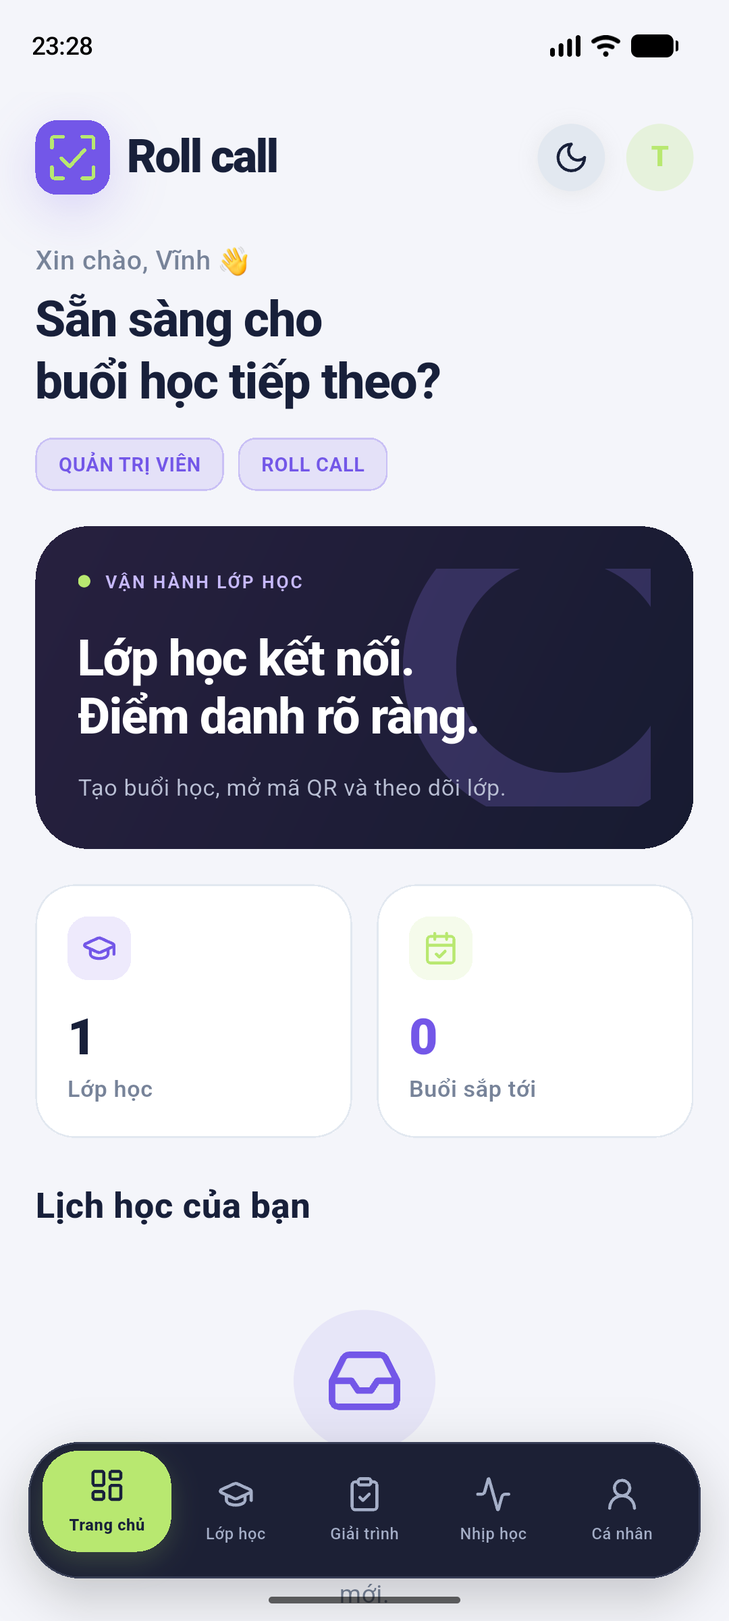
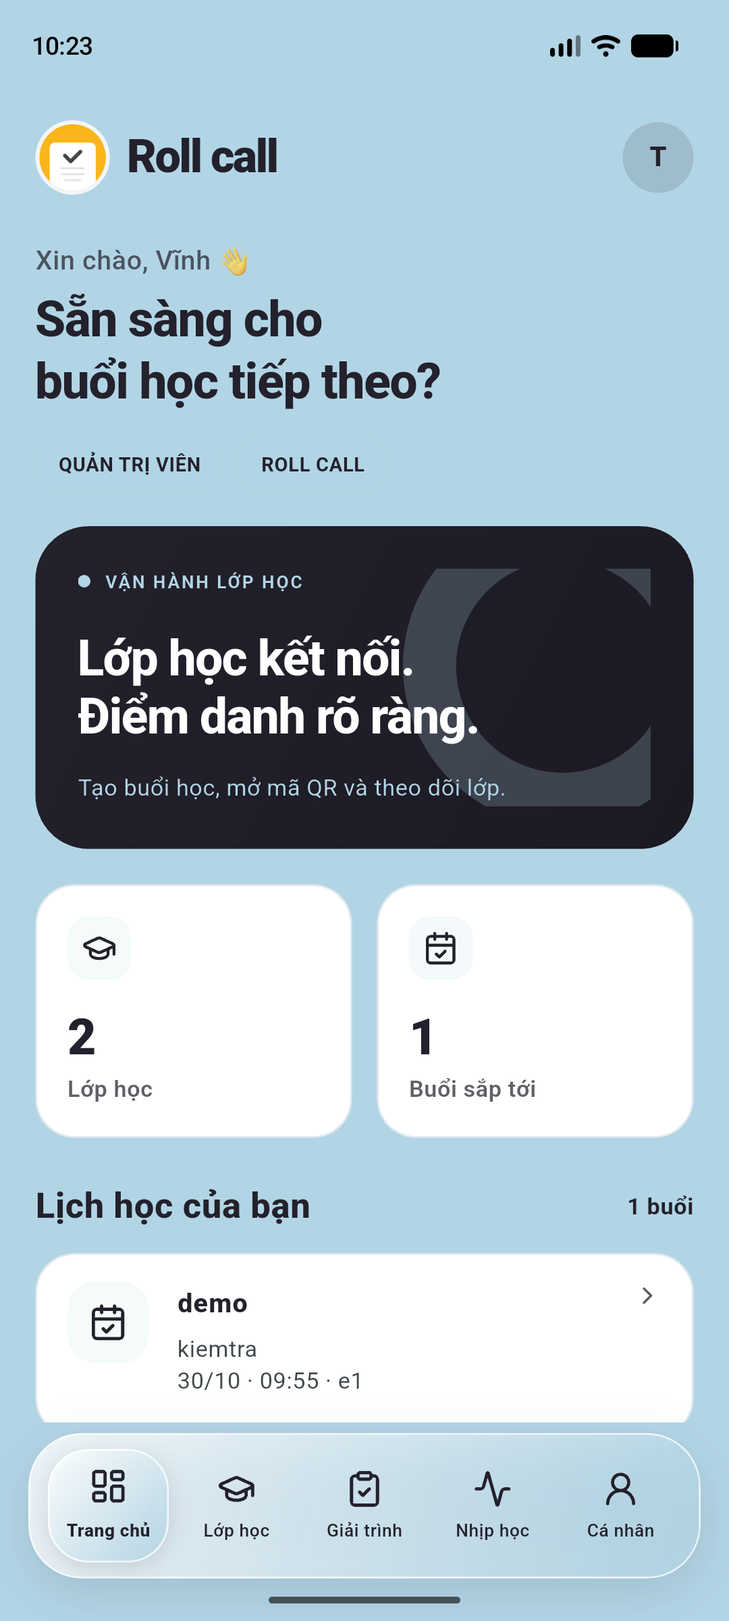
Refresh README for v1.2.3 features, verification and current UI

diff --git a/README.md b/README.md
@@ -1,47 +1,74 @@
 # Roll call — Điểm danh sinh viên
 
-<img src="assets/branding/app-icon.png" width="88" alt="Roll call" />
+<img src="assets/branding/app-icon.png" width="88" alt="Biểu tượng Roll call" />
 
 **Trương Tuấn Vĩnh · 2380602577 · Nhóm 4 con mèo**  
-Project Flutter: `truong_tuan_vinh_2380602577_diem_danh`. Tên hiển thị: **Roll call**.
+Project Flutter: `truong_tuan_vinh_2380602577_diem_danh` · **Phiên bản hiện tại: 1.2.3+6**
 
-Ứng dụng điểm danh bằng QR có thời hạn và GPS, phân quyền Admin / Giảng viên / Sinh viên, nhận OTP thật qua Gmail và xử lý giải trình có lịch sử.
+Ứng dụng Flutter dành cho Admin, Giảng viên và Sinh viên: xác thực Email OTP, quản lý lớp/buổi học, điểm danh QR kết hợp GPS, cảm biến chuyển động và duyệt giải trình.
 
-## Tải APK và dùng thử
+## Tải app và truy cập API
 
-- [Tải APK Android v1.2.3](https://github.com/Vinh-205/Roll-Call/releases/download/v1.2.3/Roll-call-2380602577-v1.2.3.apk)
-- [Các bản phát hành và source ZIP](https://github.com/Vinh-205/Roll-Call/releases)
-- [Swagger — xem và thử API](https://api.vihx.online/swagger/)
-- [Kiểm tra API](https://api.vihx.online/api/health)
+| Nội dung | Liên kết |
+|---|---|
+| APK Android v1.2.3 | [Tải và cài đặt](https://github.com/Vinh-205/Roll-Call/releases/download/v1.2.3/Roll-call-2380602577-v1.2.3.apk) |
+| Release, source ZIP và SHA256 | [Bản phát hành v1.2.3](https://github.com/Vinh-205/Roll-Call/releases/tag/v1.2.3) |
+| Swagger UI | [api.vihx.online/swagger/](https://api.vihx.online/swagger/) |
+| API base URL | `https://api.vihx.online/api` |
+| Health check | [GET /api/health](https://api.vihx.online/api/health) |
+| Source backend | [backend/](backend/) |
+| Source gateway | [cloudflare-gateway/](cloudflare-gateway/) |
 
-<img src="docs/images/download-apk-qr.png" width="200" alt="Quét QR tải APK Roll call" />
+<img src="docs/images/download-apk-qr.png" width="190" alt="Quét mã để tải APK v1.2.3" />
 
-Android: tải APK, cho phép cài đặt từ trình duyệt nếu Android yêu cầu, mở Roll call. Internet là bắt buộc để xác thực và lưu dữ liệu. Không cần chạy máy tính hoặc localhost. Tài khoản mới có vai trò Sinh viên; Admin cấp quyền Giảng viên. Không công khai mật khẩu tài khoản quản trị.
+App sử dụng HTTPS công khai, không cần chạy backend trên máy tính. Tải APK, cho phép cài từ trình duyệt nếu Android yêu cầu rồi mở Roll call. Thiết bị cần Internet để xác thực và lưu dữ liệu.
 
-## Chức năng
+## Mới trong v1.2.3
+
+- **Sửa nút bị che:** nội dung có vùng hiển thị riêng phía trên thanh điều hướng; nút **Tạo lớp / Tham gia lớp** không còn nằm dưới thanh này. Kiểm thử cả Admin và Sinh viên ở chiều rộng 360 px, cỡ chữ 130%.
+- **Thanh điều hướng kiểu liquid glass:** nền trong mờ, blur, viền sáng, bóng đổ và vùng chọn trượt giữa các mục. Icon Morphicons chuyển hình khi đổi tab. Đây là hiệu ứng kính được dựng bằng Flutter, không phải thành phần Liquid Glass gốc của iOS.
+- **Giữ bản sửa QR của v1.2.2:** bộ quét nhận đúng `catcheck:<sessionId>:<token>` từ backend. Đổi tên hiển thị thành Roll call không thay đổi giao thức QR.
+- **Giữ các nâng cấp v1.2.x:** sáu ô OTP đều nhau, splash Lottie mới, palette Cosmic/Candy Blue, nút đăng xuất đỏ bầm, ảnh đại diện, cài đặt giao diện và mở khóa sinh trắc học.
+
+<img src="docs/images/home-light.png" width="290" alt="Roll call v1.2.3 trên Android máy ảo với thanh điều hướng kính" />
+
+Ảnh trên được chụp từ bản v1.2.3 đang chạy trên máy ảo Android.
+
+## Chức năng chính
 
 | Nhóm | Chức năng |
 |---|---|
-| Tài khoản | Đăng ký email, mật khẩu + Email OTP, đăng xuất, sửa hồ sơ |
-| Phân quyền | Admin quản trị tài khoản; giảng viên quản lý lớp phụ trách; sinh viên xem lớp và lịch sử riêng |
-| CRUD | Lớp học, buổi học, thành viên lớp; tạo/sửa/xóa giải trình chờ duyệt; quản trị vai trò/tài khoản |
-| QR | Giảng viên mở mã có hạn 90 giây; sinh viên quét bằng camera; không điểm danh trùng |
-| Vị trí | Lấy GPS khi xác nhận; kiểm tra độ chính xác và bán kính buổi học; không theo dõi nền |
-| Chuyển động | Gia tốc kế trực tiếp, đồ thị, đếm đợt chuyển động; phiên tập trung 25 phút và nhắc nghỉ |
-| Giải trình | Sinh viên gửi lý do; giảng viên/Admin chấp nhận hoặc từ chối, ghi chú và thời gian xử lý |
-| Giao diện | Cosmic `#23212C` / Candy Blue `#B2D5E5`; nút Lottie ngày/đêm; chuyển theme lan tròn toàn màn hình; splash điện thoại kèm tên Roll call |
+| Đăng ký / đăng nhập | Đăng ký email; xác minh OTP qua Gmail; đăng nhập tên đăng nhập + mật khẩu + Email OTP; đăng xuất |
+| Phân quyền | Admin quản trị tài khoản; Giảng viên quản lý lớp phụ trách; Sinh viên truy cập lớp và lịch sử của mình; backend kiểm tra quyền |
+| CRUD | Lớp học, buổi học, quản lý thành viên; tạo/sửa/xóa giải trình chờ duyệt; quản trị tài khoản và vai trò |
+| QR | Quét camera, mã có thời hạn 90 giây, kiểm tra đúng buổi học và chống điểm danh trùng |
+| GPS | Xin quyền, lấy vị trí khi xác nhận điểm danh; kiểm tra độ chính xác và bán kính; không theo dõi vị trí nền |
+| Chuyển động | Gia tốc kế trực tiếp, đồ thị và đếm đợt chuyển động; phiên tập trung 25 phút và nhắc nghỉ |
+| Giải trình | Sinh viên gửi lý do; Giảng viên/Admin duyệt hoặc từ chối, lưu ghi chú và lịch sử xử lý |
+| Hồ sơ | Cập nhật thông tin cá nhân, chọn/xóa ảnh đại diện bằng trình chọn ảnh hệ thống |
+| Cài đặt | Cỡ chữ 90–130%, màu nền riêng cho sáng/tối; lưu lựa chọn trên thiết bị |
+| Sinh trắc học | Mở khóa phiên đã đăng nhập bằng phương thức sinh trắc học hệ điều hành hỗ trợ, sau lần đăng nhập mật khẩu/OTP |
 
-Điểm danh kết hợp mã QR có thời hạn và vị trí; màn hình Nhịp học sử dụng cảm biến chuyển động của thiết bị.
+### Giao diện và animation
 
-## Giao diện
+- Màu thương hiệu **Cosmic `#23212C`** và **Candy Blue `#B2D5E5`**. Nền tối mặc định dịu hơn: `#35313F`, thẻ `#454151`; có thể chọn nền khác trong Cài đặt.
+- Chỉ có **một nút sáng/tối** tại **Cá nhân → Giao diện Sáng / Tối**. Lottie Day to Night chạy thuận/ngược; hiệu ứng lan toàn màn hình giữ nguyên trang và dữ liệu đang nhập.
+- Splash dùng **Smartphones Applications.json**, kèm tên Roll call. Launcher icon là hình điểm danh do chủ dự án cung cấp.
+- Sáu ô Email OTP cùng kích thước, focus rõ; hỗ trợ dán mã, tự điền và chỉ nhận tối đa sáu chữ số. Đã kiểm thử ở chiều rộng 280 px, cỡ chữ 130%.
+- Nút đăng xuất phủ **đỏ bầm `#6B3747` toàn ô**, chữ và icon sáng.
+- Hiệu ứng theme và chuyển tab tôn trọng tùy chọn giảm chuyển động của thiết bị.
 
-Màu chủ đạo: **Cosmic `#23212C`** và **Candy Blue `#B2D5E5`**. Chế độ tối mặc định dùng biến thể Cosmic dịu `#35313F` và thẻ `#454151` để giảm cảm giác quá tối; trong Cài đặt có thể chọn Cosmic gốc hoặc nền sáng hơn. Nút Day to Night chạy thuận/ngược theo chế độ; thay đổi theme lan từ nút bấm ra toàn màn hình và giữ nguyên trang/nội dung đang nhập. Khi thiết bị bật giảm chuyển động, hiệu ứng lan được bỏ qua.
+### Ảnh đại diện và sinh trắc học
 
-<img src="docs/images/home-light.png" width="260" alt="Giao diện sáng" /> <img src="docs/images/home-dark.png" width="260" alt="Giao diện tối" />
+**Cá nhân → Đổi ảnh đại diện → Chọn từ thư viện** mở trình chọn ảnh hệ thống. Android 13+ sử dụng Photo Picker để cấp quyền cho ảnh được chọn; máy ảo cần có ảnh trong Pictures/DCIM. Ảnh được sao chép vào bộ nhớ riêng của app, tách theo ID tài khoản và giữ sau khi mở lại. **Ảnh đại diện chưa đồng bộ backend.**
 
-## Cài source Flutter
+Sau khi đăng nhập mật khẩu + OTP, vào **Cá nhân → Cài đặt ứng dụng → Khuôn mặt / Vân tay**. App chỉ bật tính năng sau khi xác thực sinh trắc học thành công. Lần mở sau, app kiểm tra phiên với API rồi yêu cầu mở khóa; sau hơn một phút ở nền sẽ khóa lại nếu đã bật. Phiên hết hạn hoặc đăng xuất vẫn cần mật khẩu + OTP.
 
-Yêu cầu Flutter có Dart phù hợp `pubspec.yaml` (source hiện dùng Dart >= 3.13.3), Android SDK, JDK tương thích Android Gradle Plugin. Chạy `flutter doctor` trước.
+Thiết bị phải hỗ trợ và đã đăng ký sinh trắc học trong Android/iOS Settings. Hệ điều hành quyết định phương thức khả dụng; không phải mọi Android đều cho ứng dụng dùng khuôn mặt. App dùng `local_auth`, không lưu ảnh khuôn mặt hay mẫu vân tay. **Chưa xác nhận mở khóa sinh trắc học thành công trên thiết bị thật đã đăng ký.**
+
+## Cài và chạy source
+
+Yêu cầu Flutter có **Dart >= 3.13.3**, Android SDK và JDK tương thích Android Gradle Plugin. Chạy `flutter doctor` để kiểm tra môi trường.
 
 ```bash
 git clone https://github.com/Vinh-205/Roll-Call.git
@@ -51,65 +78,64 @@ flutter devices
 flutter run -d <device-id>
 ```
 
-Mở **thư mục gốc có `pubspec.yaml`** trong Android Studio hoặc VS Code. Không mở riêng `android/` để chạy Flutter. Nên đặt source ở đường dẫn không dấu như `D:\AndroidStudioProjects\Roll-Call`.
+Mở **thư mục gốc có `pubspec.yaml`** trong Android Studio hoặc VS Code. Nên đặt source ở đường dẫn không dấu, ví dụ `D:\AndroidStudioProjects\Roll-Call`.
 
 ```bash
-flutter analyze
-flutter test
 flutter build apk --release
 ```
 
-APK tạo tại `build/app/outputs/flutter-apk/app-release.apk`. API mặc định là HTTPS công khai. Có thể đổi môi trường bằng:
+APK được tạo tại `build/app/outputs/flutter-apk/app-release.apk`. API mặc định đã là `https://api.vihx.online/api`. Muốn dùng môi trường riêng:
 
 ```bash
 flutter run --dart-define=API_BASE_URL=https://YOUR-API-DOMAIN/api
 ```
 
-Tên package Flutter giữ nhận diện tác giả. iOS có source nhưng chưa build/kiểm thử trên thiết bị Apple.
+Không cần đưa `.env`, mật khẩu hoặc khóa gửi email vào Flutter để dùng API hiện tại.
 
-## Sử dụng
+### Chạy máy thật và chiếu lên desktop
 
-1. Đăng ký bằng email nhận thư được; nhập OTP 6 số trong Gmail. Đăng nhập cũng yêu cầu mật khẩu và OTP. Kiểm tra Spam nếu chưa thấy thư; chờ 60 giây giữa các lần gửi.
-2. Admin mở Cá nhân → Quản trị tài khoản, cấp vai trò Giảng viên cho thành viên phù hợp.
-3. Giảng viên tạo lớp và buổi học, lấy GPS thật nếu dùng vùng điểm danh, mở QR khi buổi học đang diễn ra.
-4. Sinh viên tham gia bằng mã lớp, bấm Quét QR điểm danh, cho phép camera/vị trí và quét QR trên màn hình giảng viên. Điện thoại phải ở trong bán kính và GPS đủ chính xác.
-5. Xem lịch sử. Nếu không điểm danh được, gửi giải trình từ buổi học; giảng viên duyệt và ghi chú.
-6. Mở Nhịp học, bật Chuyển động trực tiếp rồi nghiêng điện thoại nhẹ. Khi rời trang, cảm biến/timer được hủy theo vòng đời màn hình.
-7. Chỉ có một nút Day to Night nhỏ tại Cá nhân → Giao diện Sáng / Tối. Bấm để đổi theme với hiệu ứng lan tròn.
+1. Kết nối USB, bật Gỡ lỗi USB, mở khóa điện thoại và chấp nhận quyền kết nối máy tính.
+2. Dùng `flutter devices`, rồi `flutter run -d <device-id>`; hoặc cài APK từ Release.
+3. Cài [scrcpy từ nguồn chính thức](https://github.com/Genymobile/scrcpy), chạy:
 
-- [Link API và endpoint](docs/LINK_API.txt)
+```bash
+scrcpy -d --no-audio
+```
 
-## Ảnh đại diện và thư viện ảnh
+`-d` chọn thiết bị USB khi đang mở cả máy ảo. Giữ cáp kết nối trong lúc trình chiếu. Để demo QR, dùng máy ảo đăng nhập Admin/Giảng viên và điện thoại đăng nhập Sinh viên.
 
-Trong **Cá nhân**, chạm ảnh đại diện hoặc **Đổi ảnh đại diện → Chọn từ thư viện**. Trình chọn ảnh hệ thống cấp quyền cho ảnh được chọn; Android 13+ dùng Photo Picker, Android cũ dùng trình chọn tệp/ảnh. Máy ảo cần có ảnh trong Pictures/DCIM để chọn. Ảnh được sao chép vào bộ nhớ riêng của ứng dụng, tách theo ID tài khoản, giữ sau khi khởi động lại và có thể xóa. Ảnh đại diện hiện chỉ lưu trên thiết bị, chưa đồng bộ backend. iOS đã khai báo mô tả quyền thư viện ảnh; chưa kiểm thử trên thiết bị Apple.
+## Luồng sử dụng
 
-## Cài đặt và sinh trắc học
+1. Đăng ký bằng email nhận thư được, nhập OTP từ Gmail. Tài khoản mới là Sinh viên; Admin cấp vai trò Giảng viên khi cần.
+2. Giảng viên tạo lớp và buổi học, thiết lập thời gian/vị trí/bán kính điểm danh.
+3. Sinh viên tham gia lớp bằng mã lớp.
+4. Khi buổi học diễn ra, Giảng viên mở QR; Sinh viên cấp quyền camera, quét mã và xác nhận chia sẻ vị trí. Thiết bị phải trong bán kính, GPS đủ chính xác.
+5. Xem kết quả và lịch sử; gửi giải trình khi gặp sự cố để Giảng viên/Admin xử lý.
+6. Trong Nhịp học, bật chuyển động trực tiếp và di chuyển nhẹ thiết bị. Cảm biến/timer được dừng theo vòng đời màn hình.
+7. Trong Cá nhân, đổi ảnh, chỉnh hồ sơ, cỡ chữ, màu nền, giao diện hoặc thiết lập sinh trắc học.
 
-**Cá nhân → Cài đặt ứng dụng** cho phép đổi cỡ chữ 90–130%, chọn màu nền riêng cho sáng/tối, cập nhật hồ sơ và ảnh đại diện. Các lựa chọn được lưu trên thiết bị. Nút Day to Night chỉ có một vị trí trong Cá nhân.
+**Nếu quét QR lỗi:** cập nhật APK từ v1.2.2 trở lên và mở QR mới ở máy Giảng viên. Mã hết hạn sau 90 giây; sai lớp, ngoài thời gian hoặc ngoài bán kính vẫn bị API từ chối.
 
-Sau lần đăng nhập mật khẩu + Email OTP, có thể bật **Khuôn mặt / Vân tay**. Ứng dụng yêu cầu xác thực sinh trắc học thành công trước khi lưu lựa chọn. Lần mở app sau dùng phiên đã được lưu bảo mật, kiểm tra token với API rồi yêu cầu sinh trắc học trước khi hiển thị các trang đã đăng nhập. Khi phiên hết hạn hoặc sau khi đăng xuất, vẫn cần mật khẩu + OTP. Sau hơn một phút ở nền, ứng dụng yêu cầu mở khóa lại nếu đã bật tính năng.
+**Nếu không kết nối được máy chủ sau khi mới đổi domain:** kiểm tra Internet và thử mở health check trên cùng thiết bị. DNS của nhà mạng có thể còn lưu kết quả cũ; có thể chọn DNS riêng tư `one.one.one.one` trong Android Settings nếu mạng hỗ trợ. Không tắt kiểm tra chứng chỉ HTTPS.
 
-Dùng `local_auth` của Flutter, `FlutterFragmentActivity` và Android `USE_BIOMETRIC`; iOS có `NSFaceIDUsageDescription`. Thiết bị/hệ điều hành quyết định phương thức khả dụng; không đảm bảo mọi điện thoại Android đều cho ứng dụng dùng nhận diện khuôn mặt. Không lưu ảnh khuôn mặt, mẫu vân tay hoặc mật khẩu. Nếu chưa đăng ký sinh trắc học trên thiết bị, màn hình hướng dẫn thiết lập hoặc tiếp tục dùng OTP. Máy ảo cần tự đăng ký vân tay ảo trong Android Settings để thử giao diện xác thực thật. Các kiểm thử tự động sử dụng authenticator giả lập, chưa thay thế kiểm thử phần cứng trên điện thoại thật.
+## Swagger và kiến trúc API
 
-## Thử Swagger
+Mở [Swagger](https://api.vihx.online/swagger/), gọi `POST /auth/login` bằng tài khoản của mình, lấy `challengeId`, rồi gọi `POST /auth/verify` bằng OTP nhận qua Gmail. Sao chép `token`, bấm **Authorize** và dán token nguyên bản, không thêm chữ `Bearer`. Thử `GET /auth/me` hoặc `GET /courses`.
 
-Mở `POST /auth/login`, tự nhập tài khoản/mật khẩu. Sao chép `challengeId`; gọi `POST /auth/verify` cùng OTP trong email. Sao chép trường `token`, bấm **Authorize**, dán token nguyên bản, không thêm chữ `Bearer`. Thử `GET /auth/me`, `GET /courses`. Các thao tác ghi/xóa tác động dữ liệu thật; dùng lớp demo để trình diễn. Không quay mật khẩu, OTP, token hoặc tọa độ cá nhân.
-
-## Kiến trúc
+Swagger có logo và favicon Swagger UI; OpenAPI trỏ cùng domain tới `https://api.vihx.online/api`. Các endpoint ghi/xóa tác động dữ liệu thật, nên dùng lớp thử. Không chia sẻ mật khẩu, OTP hoặc token. Xem thêm [link API và endpoint](docs/LINK_API.txt).
 
 ```mermaid
 flowchart LR
-  A[Flutter · Roll call] -->|HTTPS + Bearer| B[Cloudflare Worker cá nhân · API gateway]
-  W[Swagger UI] -->|Try it out| B
-  B --> C[Backend nghiệp vụ hiện có · Cloudflare Workers]
-  C --> D[(Cloudflare D1)]
-  C -->|Yêu cầu gửi OTP| E[Google Apps Script · Mail relay]
-  E --> F[Gmail của người dùng]
-  G[Camera · QR] --> A
-  H[GPS · Gia tốc kế] --> A
+  App[Flutter Roll call] -->|HTTPS + Bearer| Gateway[api.vihx.online · Cloudflare gateway]
+  Swagger[Swagger UI] -->|Try it out| Gateway
+  Gateway --> Backend[Backend nghiệp vụ hiện có]
+  Backend --> DB[(Cloudflare D1)]
+  Backend --> Relay[Google Apps Script · gửi OTP]
+  Relay --> Gmail[Gmail người dùng]
+  Device[Camera · GPS · Gia tốc kế] --> App
 ```
 
-Tên miền mới là gateway trong tài khoản Cloudflare cá nhân, chuyển tiếp đến backend hiện có để giữ nguyên dữ liệu và phiên đăng nhập. **Chưa di chuyển D1 sang tài khoản cá nhân**. Google Apps Script chỉ gửi email, không phải API CRUD. Source nghiệp vụ nằm ở `backend/lib/api.ts`; source gateway ở `cloudflare-gateway/`.
+`api.vihx.online` là gateway trong tài khoản Cloudflare cá nhân, chuyển tiếp tới backend hiện có để giữ nguyên dữ liệu và phiên đăng nhập. **Chưa di chuyển D1 sang tài khoản cá nhân.** Google Apps Script chỉ hỗ trợ gửi email OTP, không phải API CRUD. Bản sửa QR và giao diện không thay đổi nghiệp vụ backend.
 
 ```mermaid
 sequenceDiagram
@@ -119,58 +145,69 @@ sequenceDiagram
   participant Mail as Gmail relay
   U->>App: Tên đăng nhập + mật khẩu
   App->>API: POST /auth/login
-  API->>Mail: Gửi OTP 6 số
+  API->>Mail: Gửi Email OTP
   API-->>App: challengeId
-  U->>App: Nhập OTP nhận trong Gmail
+  U->>App: Nhập OTP 6 số
   App->>API: POST /auth/verify
-  API-->>App: token + user.role
+  API-->>App: token + vai trò
   App->>App: Mở giao diện theo vai trò
 ```
 
 ```mermaid
 flowchart TD
-  A[Giảng viên tạo buổi học] --> B[Mở QR có thời hạn]
-  B --> C[Sinh viên quét bằng camera]
-  C --> D[Lấy GPS khi xác nhận]
-  D --> E{API kiểm tra thành viên, thời gian, QR, vị trí}
-  E -->|Hợp lệ| F[Lưu đúng giờ hoặc đến muộn]
-  E -->|Không hợp lệ| G[Thông báo lý do]
-  G --> H[Sinh viên gửi giải trình]
-  H --> I[Giảng viên duyệt, lưu ghi chú và thời gian]
+  A[Giảng viên mở QR có thời hạn] --> B[Sinh viên quét QR]
+  B --> C[Xác nhận chia sẻ GPS]
+  C --> D{API kiểm tra quyền, buổi học, QR, vị trí}
+  D -->|Hợp lệ| E[Lưu đúng giờ hoặc đến muộn]
+  D -->|Không hợp lệ| F[Thông báo lý do]
+  F --> G[Sinh viên gửi giải trình]
+  G --> H[Giảng viên duyệt và lưu lịch sử]
 ```
 
-## Triển khai backend / OTP
+## Kiểm thử và phạm vi xác nhận
 
-Backend đang hoạt động công khai; để chạy app không cần triển khai lại. Khi tự triển khai một môi trường riêng, tạo D1 và áp dụng schema/migrations trong `backend`, cấu hình bí mật runtime theo [EMAIL_OTP.md](docs/EMAIL_OTP.md), rồi triển khai Worker với Wrangler hoặc luồng hosting tương ứng. Không đưa `.email-setup.json`, `.private.env`, `.dev.vars`, token Cloudflare hay mật khẩu vào Git. Không bật `LOCAL_TEST_MODE` trên production.
-
-`cloudflare-gateway/wrangler.jsonc` trỏ đến tài khoản sở hữu hiện tại; người triển khai riêng phải dùng tài khoản của mình. Worker gateway không chứa secret. Hạn mức Cloudflare/Gmail có thể ảnh hưởng khi vượt quota.
-
-## Nguồn giao diện và giấy phép
-
-[Lucian UX/UI patterns](https://lucianlabs.dev/uxui-prompt/) được tham khảo cho bố cục. **Morphicons 2.0.2 được sử dụng thực sự ở bước tạo dữ liệu icon**: script `tools/morphicons/generate.mjs` gọi các hàm chính thức `iconToCubics`, `resampleIcon`, `buildPlan`, `interpPolar`. Flutter vẽ các đường cong/kế hoạch đó trực tiếp bằng Canvas, với nội suy polar và spring chuyển từ mã nguồn MIT. Không nhúng WebView; đây là adapter Flutter của dự án, không phải SDK Flutter chính thức của Morphicons. Các nút điều hướng, play/pause, hiện/ẩn mật khẩu dùng kế hoạch chuyển hình; tất cả icon dùng đường cong đã chuẩn hóa qua Morphicons. Test đối chiếu tọa độ Flutter với kết quả thư viện JavaScript chính thức.
-
-Để tạo lại dữ liệu: `cd tools/morphicons`, `npm ci`, `npm run generate`. Dữ liệu sinh ra đã được commit nên chạy Flutter không cần Node.js. Nguồn icon đầu vào Lucide (ISC), Morphicons (MIT), giấy phép ở `docs/licenses`.
-
-Icon điểm danh và hai animation `Day to Night.json`, `Smartphones Applications.json` do chủ dự án cung cấp. Nút Day to Night dùng Lottie theo yêu cầu riêng; icon các chức năng dùng Morphicons. Các asset đóng gói trong app, không cần tải animation qua mạng.
-
-## Kiểm tra source
+| Kiểm tra | Kết quả gần nhất |
+|---|---|
+| `flutter analyze` | Không có lỗi/cảnh báo |
+| `flutter test` | **20 kiểm thử đạt** ở v1.2.3 |
+| `node --test cloudflare-gateway/test.mjs` | **4 kiểm thử gateway đạt** |
+| Android native QR decoder trên máy ảo | **1 kiểm thử tích hợp đạt**: giải mã ảnh QR bằng bộ quét Android, nhận đúng payload backend, từ chối QR không liên quan |
+| APK Android v1.2.3 | Build release và cài trên máy ảo thành công |
+| API domain riêng | HTTPS hợp lệ; Swagger/health trả 200; API bảo vệ trả 401 khi thiếu token |
 
 ```bash
 flutter analyze
 flutter test
 node --test cloudflare-gateway/test.mjs
+flutter test integration_test/qr_protocol_test.dart -d <android-device-id>
 ```
 
-Bản 1.2.0 đã build APK release và kiểm tra trên máy ảo. Camera, GPS và cảm biến cần thiết bị Android có phần cứng tương ứng để kiểm thử đầy đủ.
+Kiểm thử QR tích hợp tạo ảnh thử trên thiết bị, không gửi điểm danh hay sửa dữ liệu thật. Khi chạy bài này, Flutter cài app kiểm thử; sau đó chạy lại `lib/main.dart` hoặc cài APK Release để trở về app thường.
 
-### Nhập Email OTP
+OTP thật, camera QR, GPS và chuyển động từng được thử trên Redmi ở bản nền trước các cập nhật giao diện. Bài QR trên máy ảo **không thay thế** việc quét camera và điểm danh GPS đầy đủ trên điện thoại thật. Chưa xác nhận tất cả thành viên chạy bản mới nhất. Source iOS có khai báo quyền nhưng chưa build/kiểm thử trên thiết bị Apple.
 
-Sáu ô mã xác thực có chiều rộng bằng nhau, cùng đường cơ sở và trạng thái focus rõ ràng. Một trình nhập hệ thống hỗ trợ dán mã, tự điền OTP và chỉ nhận tối đa sáu chữ số. Đã kiểm thử bố cục rộng 280 px với cỡ chữ 130%.
+## Cấu trúc source và triển khai
 
-### Sửa tương thích QR (1.2.2)
+| Thư mục | Nội dung |
+|---|---|
+| `lib/` | Flutter UI, API client, QR parser, theme, avatar và sinh trắc học |
+| `assets/` | Branding và Lottie đóng gói trong app |
+| `backend/` | Backend nghiệp vụ, D1 schema/migrations và mail relay |
+| `cloudflare-gateway/` | Gateway, Swagger UI và cấu hình custom domain |
+| `test/`, `integration_test/` | Kiểm thử Flutter và Android |
+| `tools/morphicons/` | Công cụ sinh dữ liệu icon từ Morphicons |
 
-Ứng dụng nhận đúng định dạng `catcheck:<sessionId>:<token>` do backend hiện tại cấp. Tên hiển thị Roll call không thay đổi giao thức QR; kiểm tra thời hạn, quyền, GPS và trùng điểm danh vẫn thực hiện ở API.
+App hiện dùng API công khai, không cần triển khai lại backend để chạy. Muốn triển khai môi trường riêng: cấu hình D1, schema/migrations, bí mật runtime theo [EMAIL_OTP.md](docs/EMAIL_OTP.md), rồi deploy bằng tài khoản của mình. Không bật `LOCAL_TEST_MODE` trên production.
 
-### Thanh điều hướng kính (1.2.3)
+Cấu hình gateway `wrangler.jsonc` là địa chỉ workers.dev; `wrangler.custom-domain.jsonc` gắn `api.vihx.online`. Người triển khai riêng phải thay tài khoản/domain bằng thông tin của mình. Hạn mức Cloudflare và dịch vụ gửi mail có thể ảnh hưởng khi vượt quota.
 
-Thanh điều hướng nổi dùng nền trong mờ, blur, viền phản sáng và vùng chọn trượt. Nội dung có vùng hiển thị riêng, giữ nút Tạo lớp/Tham gia lớp phía trên thanh điều hướng. Kiểm thử bố cục ở màn hình rộng 360 px, cỡ chữ 130% cho cả Admin và Sinh viên.
+Repository/source ZIP chỉ chứa source và tài liệu kỹ thuật liên quan. Không đưa `.env`, `.private.env`, `.email-setup.json`, `.dev.vars`, token, mật khẩu, thư mục build, báo cáo điểm hoặc lời lồng tiếng lên GitHub.
+
+## Tài nguyên và giấy phép
+
+- **Morphicons 2.0.2:** công cụ sinh dữ liệu gọi `iconToCubics`, `resampleIcon`, `buildPlan`, `interpPolar` từ thư viện chính thức; adapter Flutter vẽ đường cong bằng Canvas và nội suy theo mã MIT. Đây là adapter của dự án, không phải SDK Flutter chính thức của Morphicons. Kiểm thử đối chiếu tọa độ với thư viện JavaScript.
+- Dữ liệu icon đã được commit; chạy Flutter không cần Node.js. Muốn tạo lại: `cd tools/morphicons`, `npm ci`, `npm run generate`.
+- Icon đầu vào Lucide (ISC), Morphicons (MIT): [giấy phép](docs/licenses/).
+- Logo/favicons Swagger từ Swagger UI: [Apache 2.0](cloudflare-gateway/Swagger-UI-LICENSE).
+- Icon điểm danh, `Day to Night.json` và `Smartphones Applications.json` do chủ dự án cung cấp; các asset được đóng gói trong app. Nút theme dùng Lottie, icon chức năng dùng Morphicons.
+- Tham khảo bố cục từ [Lucian UX/UI patterns](https://lucianlabs.dev/uxui-prompt/).
